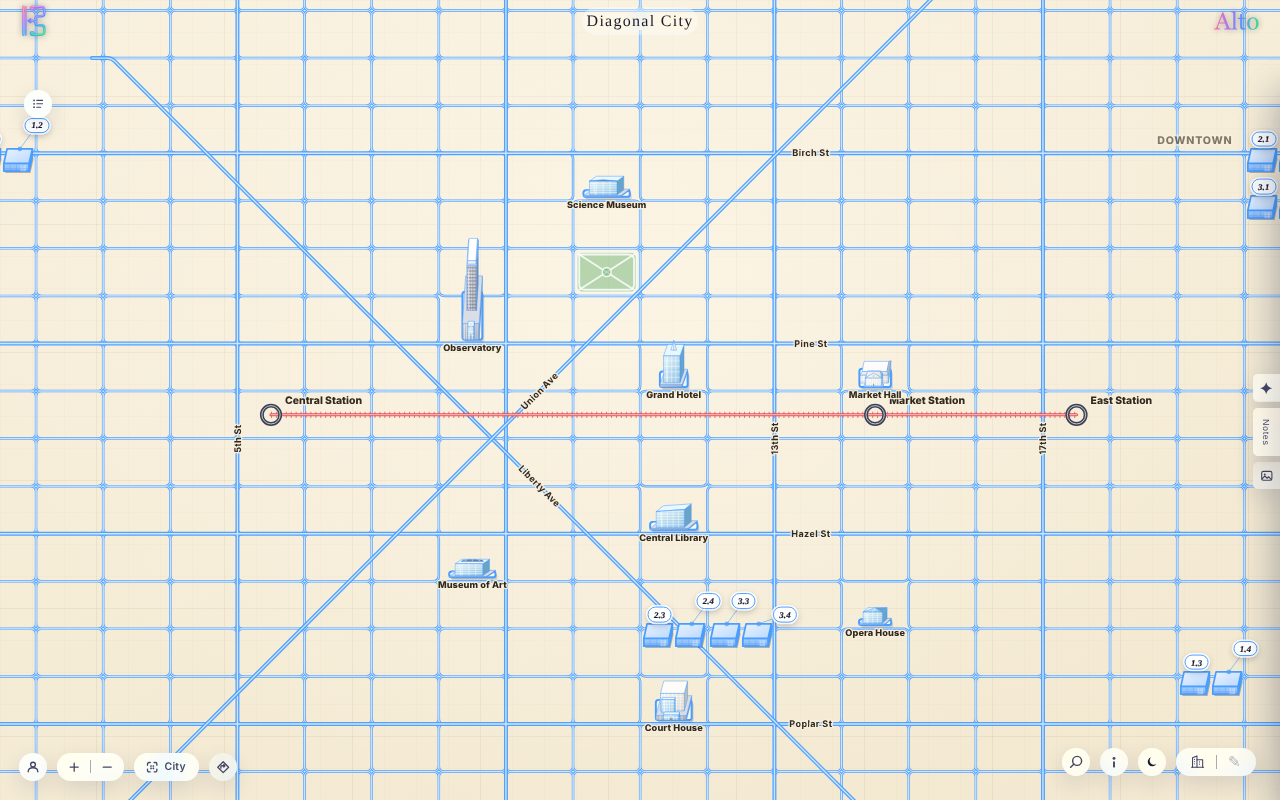
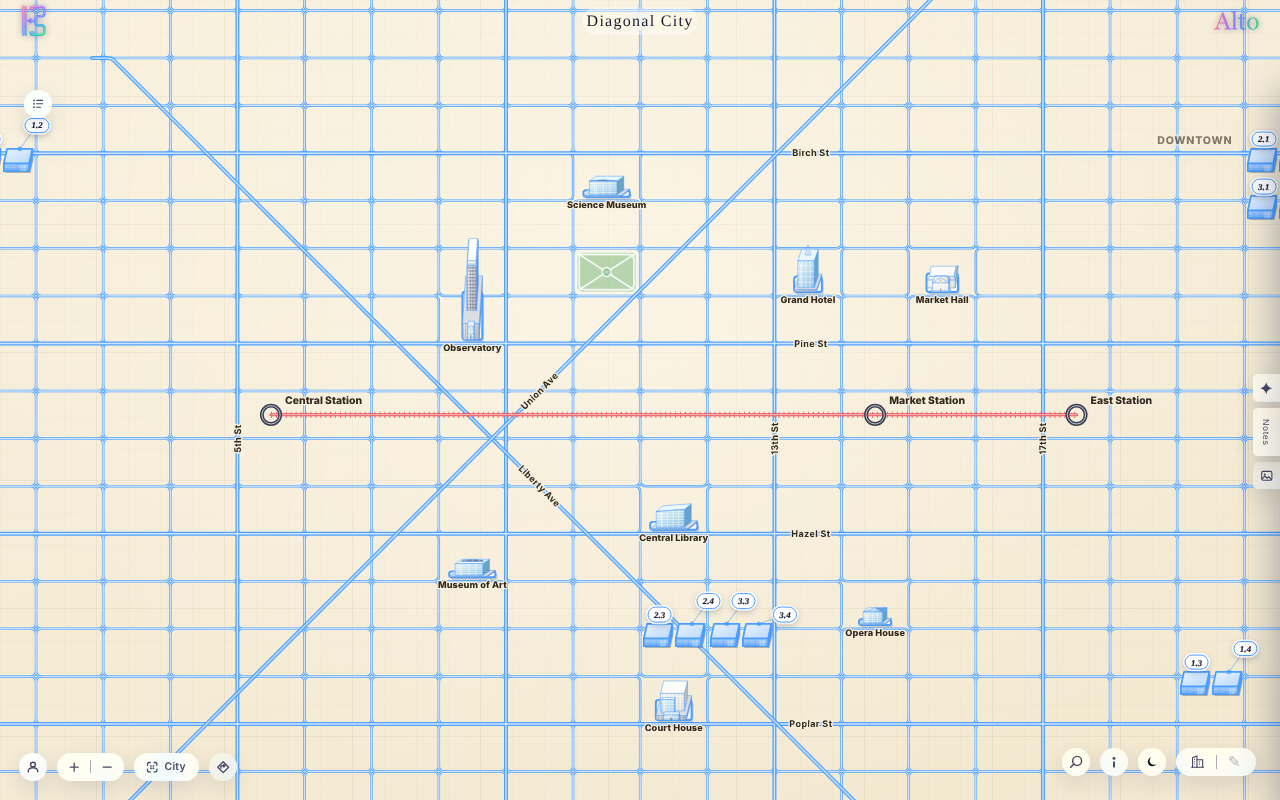
City Hall art is Philadelphia's only (Luke, L-1030-111104): palace_landmarks.scope_art gives a namesake elsewhere a generic hall; invented landmarks keep clear of the row above a line (Market Hall no longer overprints Market Station); phone row compared with alto-home
Claude-Session: https://claude.ai/code/session_01NpC4JTZhMtRV46Htvkp7WW

diff --git a/alto/build/city_invent.py b/alto/build/city_invent.py
@@ -461,8 +461,8 @@ def invent_city(spec) -> dict:
         cand = [c for c in d.cells if (d.name, c[1]) not in taken and
                 not (abs(c[0][0] - d.cx) < 1.6 * d.bw and abs(c[0][1] - d.cy) < 1.2 * d.bh) and   # its name stands there
                 not any(_poly_dist(dl, *c[0]) < .8 * max(d.bw, d.bh) for dl in diag_lines) and   # no avenue runs through it
-                not any(-.6 * d.bh < c[0][1] - y < 1.6 * d.bh and x0 - d.bw < c[0][0] < x1 + d.bw   # nor a line (nor the row
-                        for y, x0, x1 in rail_rows)]                                                 # below, whose art rises)
+                not any(-1.6 * d.bh < c[0][1] - y < 1.6 * d.bh and x0 - d.bw < c[0][0] < x1 + d.bw   # nor a line (nor the row
+                        for y, x0, x1 in rail_rows)]          # below, whose art rises; nor above, whose name meets the stations')
         if near is not None:
             cand.sort(key=lambda c: (c[0][0] - near[0]) ** 2 + (c[0][1] - near[1]) ** 2)
         else:                                           # spread: the middle first, then outwards in a fixed order
@@ -602,7 +602,7 @@ def invent_city(spec) -> dict:
             if _norm(l_["n"]) in stn:
                 continue
             x_, y_ = lm_pos.get(_norm(l_["n"]), (None, None))
-            if x_ is None or not any(-.6 * BLOCK[1] < y_ - y < 1.6 * BLOCK[1] and x0 - BLOCK[0] < x_ < x1 + BLOCK[0]
+            if x_ is None or not any(-1.6 * BLOCK[1] < y_ - y < 1.6 * BLOCK[1] and x0 - BLOCK[0] < x_ < x1 + BLOCK[0]
                                      for y, x0, x1 in rail_rows):
                 continue
             d = min((d_ for d_ in D if d_.kind == "grid"), key=lambda d_: (d_.cx - x_) ** 2 + (d_.cy - y_) ** 2)

diff --git a/alto/build/palace_landmarks.py b/alto/build/palace_landmarks.py
@@ -155,6 +155,26 @@ MATCH = [["usch", r"byrne|601 market|united states court ?house.*philadelphia"],
          ["gct", r"grand central"], ["penn", r"pennsylvania station|^penn station$"], ["un", r"united nations"], ["nych", r"^new york city hall$"]] + _towers.MATCH
 
 
+# art that is one real city's own building and must not be drawn for a namesake elsewhere (Luke 2026-10-30, "yes only philly",
+# L-1030-111104@Board): an art key -> the place it belongs to, and the generic building a namesake gets instead
+CITY_ONLY = {"city": (r"philadelphia", "g-dome")}
+
+
+def scope_art(landmarks, place) -> int:
+    """Give every landmark whose NAME would pull another city's own building (a Lyon or an invented "City Hall" drawn as
+    Philadelphia's) a generic building of its own (l["art"]); its own art, when it names one, is kept. -> how many."""
+    import re
+    n = 0
+    for l in landmarks or []:
+        if l.get("art") in ART:
+            continue
+        k = art_key(l)
+        if k in CITY_ONLY and not re.search(CITY_ONLY[k][0], str(place or ""), re.I):
+            l["art"] = CITY_ONLY[k][1]
+            n += 1
+    return n
+
+
 COURT_RX = r"court ?house|courts? building|justice cent(er|re)|hall of justice|palace of justice|supreme court|court of appeals"
 
 

diff --git a/tests/test_city_build.py b/tests/test_city_build.py
@@ -228,3 +228,18 @@ def test_invented_landmarks_never_take_a_real_buildings_art_and_cities_differ():
     sp["landmarks"][0]["look"] = "philly"
     with pytest.raises(ci.InventError):
         ci.invent_city(sp)
+
+
+@pytest.mark.parametrize("place,art", [("Lyon", "g-dome"), ("Philadelphia", "city")])
+def test_city_hall_art_is_philadelphias_only(place, art):
+    from alto.build import palace
+    from alto.build.palace_landmarks import art_key
+    sp = ci.template("grid")
+    sp["landmarks"][0]["name"] = "City Hall"
+    m = ci.invent_city(sp)
+    pl = m["plan"]
+    blds = [{"name": b["name"]} for b in pl["landmarks"]]                # no look of their own: art by name
+    pal = palace.set_up(place, list(m["bbox"]), majors=pl["majors"], landmarks=[b["name"] for b in blds], buildings=blds,
+                        parks=pl["parks"], areas=[], offline=True, fill=False, city_tiles=False, plan=m)
+    hall = next(l for l in palace.unpack(pal["data_z"])["map"]["landmarks"] if l["n"] == "City Hall")
+    assert art_key(hall) == art

diff --git a/alto/build/palace.py b/alto/build/palace.py
@@ -525,6 +525,8 @@ def set_up(place: str, bbox, districts=None, majors=None, landmarks=None, scale:
     real_trails = [dict(t) for t in (m.get("trails") or [])]                     # the grid drawing drops every path: the river trails are kept (palace_banks.py)
     real_rivers = [dict(r) for r in (m.get("rivers") or [])]                     # (and the real river lines, to read which bank a trail keeps)
     m = grid(m, majors=majors or (), diagonals=diagonals or (), lines=lines or (), landmarks=buildings or (), parks=parks or ())
+    from .palace_landmarks import scope_art
+    scope_art(m.get("landmarks"), place)                             # Philadelphia's City Hall art is Philadelphia's only
     from .city_highways import attach as attach_highways              # C3 (a no-op when city_engine attached them)
     attach_highways(m, {"highways": hw_real})
     try:
